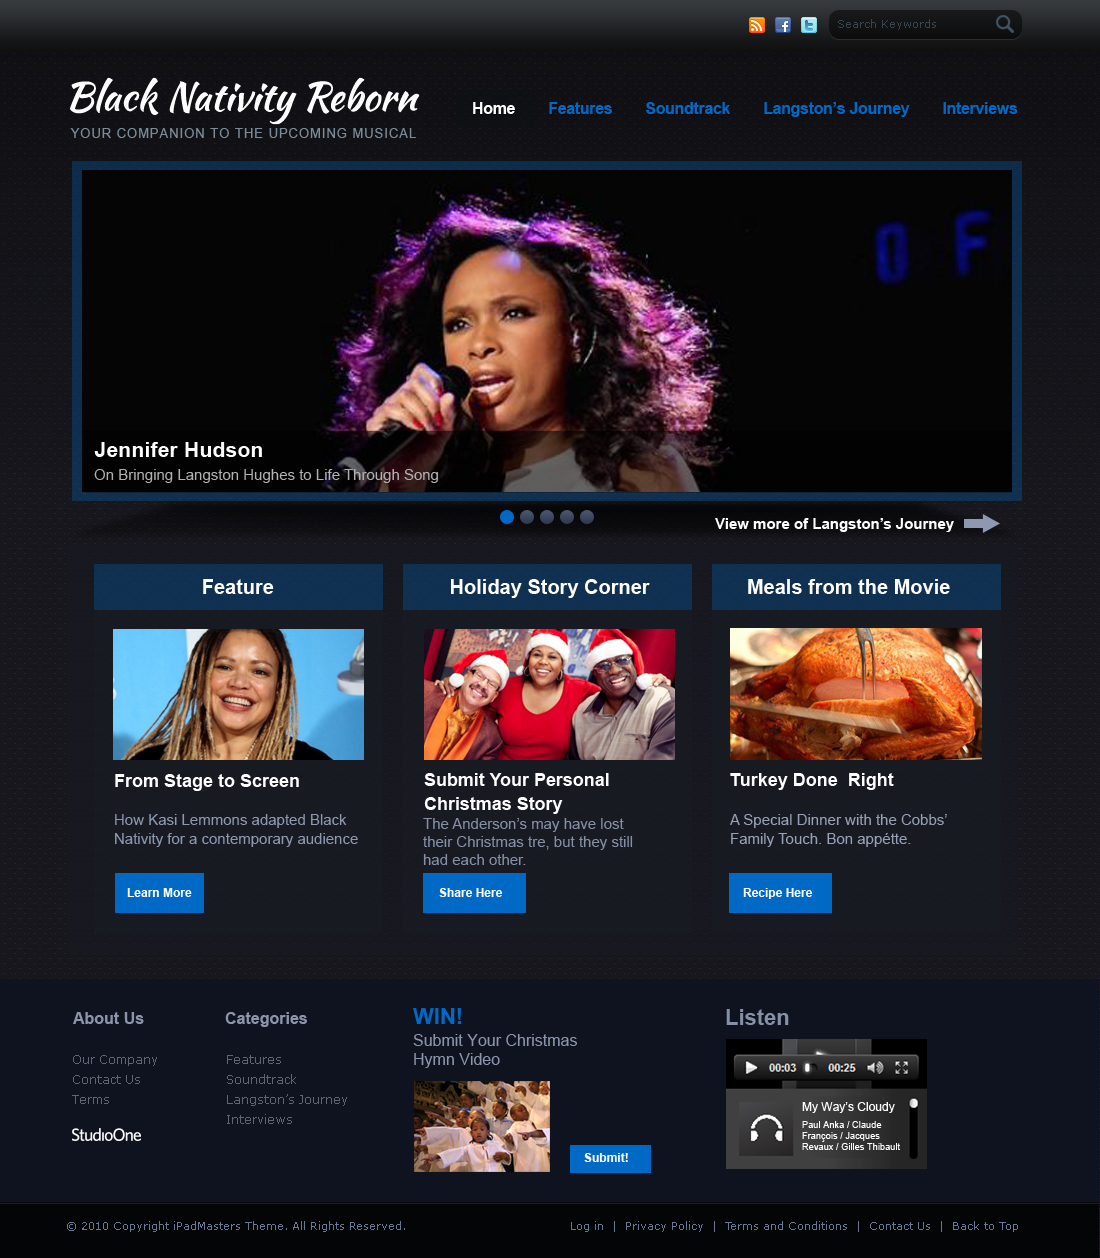
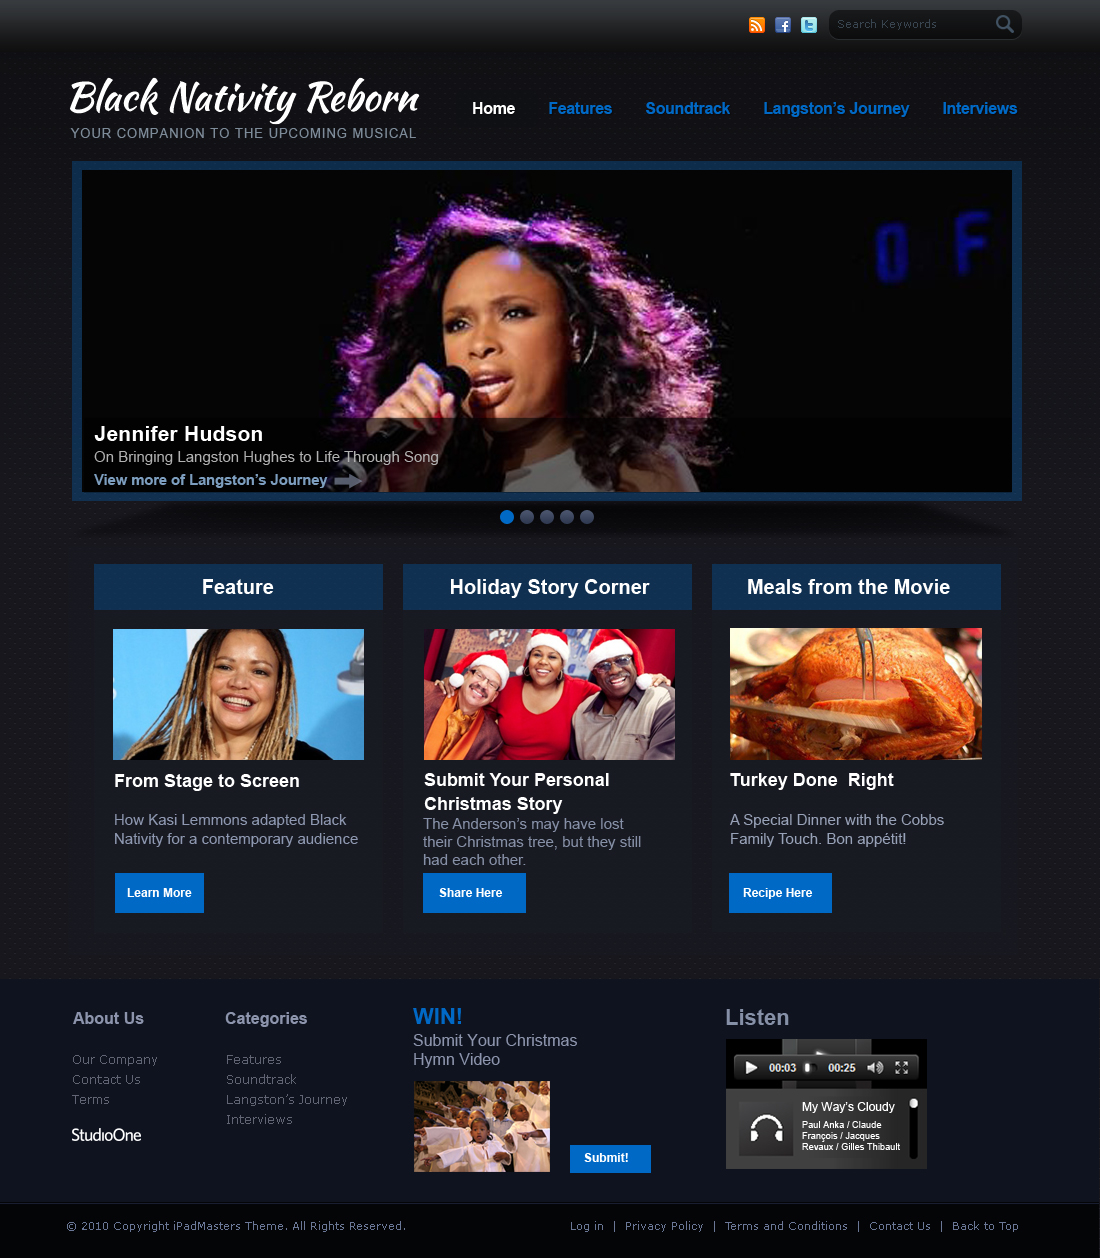
css chnage

diff --git a/blacknativity/style.css b/blacknativity/style.css
@@ -350,15 +350,17 @@ ul.pager a:hover { background:#4eabd7; }
  * Main menu links
  */
 /* 1st level */
-#navigation ul.menu  { float:right; display:block; padding:0; margin:0; position:relative; z-index:1; width:650px;}
+#navigation ul.menu  { float:right; display:block; padding:0; margin:0; position:relative; z-index:1; width:650px; left:100px;}
 
 #navigation ul.menu li { display: inline-block; float:left; vertical-align: middle; padding:0 5px 0 0; margin:0; }
 
 #navigation ul.menu li.last { padding:0; }
 
-#navigation ul.menu li a { outline:none; padding: 5px 10px; text-decoration: none; display:block; color:#7A8090; font-size:12px; font-weight:bold; text-align:center; }
+#navigation ul.menu li a { outline:none; padding: 5px 10px; text-decoration: none; display:block; color:#115ca5; font-size:13px; font-weight:bold; text-align:center; }
 
-#navigation ul.menu li a:hover, #navigation ul.menu li a.active{ text-decoration:none; color:#ffffff; border-radius: 5px; -moz-border-radius: 5px; background: #0d0f13; }
+/*#navigation ul.menu li a:hover, #navigation ul.menu li a.active{ text-decoration:none; color:#ffffff; border-radius: 5px; -moz-border-radius: 5px; background: #0d0f13; }*/
+
+#navigation ul.menu li a:hover, #navigation ul.menu li a.active{ text-decoration:none; color:#ffffff;}
 
 #navigation ul.menu li a:after { content: none; }
 
